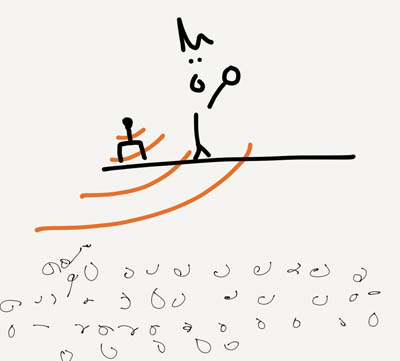
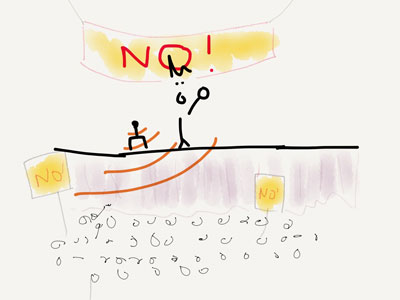
a father's mild approval is won

diff --git a/docs/background.md b/docs/background.md
@@ -1,7 +1,9 @@
 # Thoughts on The People's Library
 
 The People's Library is a decentralized, sharable, syncable media library and web app. 
-It's a web app inside a media library and a media library inside a web app (i.e. it's a [CouchDB](http://couchdb.apache.org/) [CouchApp](http://couchdb.readthedocs.org/en/latest/couchapp/) containing [pouchdb](http://pouchdb.com/)).
+It's a web app inside a media library and a media library inside a web app (i.e. it's a [CouchDB](http://couchdb.apache.org/) [CouchApp](http://couchdb.readthedocs.org/en/latest/couchapp/) containing [pouchdb](http://pouchdb.com/)).  
+
+Any device with a web browser becomes a library that allows its owner to collect, consume and share all it contains.
 
 ![mid-century](/docs/assets/mid-century.jpg "Arts & Architecture")
 
@@ -10,19 +12,11 @@ It's a web app inside a media library and a media library inside a web app (i.e.
 You could totally use other programs to package up the Tumblr and then share it via bit torrent.  That would work too.  However, you wouldn't be able to enjoy the images in the meantime.  It wouldn't be _useful_ in the interim.  So it'd be less likely to last.
 
 
-## Benefits:
-
-* HTML5 & javascript are open, widely suported and widely accessible
-* Decentralized - media files (as well as the app itself) are stored locally and can sync peer-to-peer or via internet
-* 100% free & open
-* Less Complex - built only on [CouchDB](http://couchdb.apache.org/) allows it to be run on low level devices
-* Compiling all of the world's content in a giant decentralized database
-
 ## Use Cases
 
 ![cloud-sync](/docs/assets/cloud-sync.jpg "Cloud Sync")
 
-* A user on a desktop PC navigates to a remote peoples-lib via URL.  The user is able to view, search, consume and sync any files in the remote library.  Synced files are stored in the browser for offline use. They can also be downloaded to the PC file system.  The user is also able to see others users who are currently in the library and sync with them peer-to-peer using webRTC
+* A user on a desktop PC navigates to a remote peoples-lib via URL.  The user is able to view, search, consume and sync any files in the remote library.  Synced files are stored in the browser for offline use. They can also be downloaded to the PC file system.  The user is able to see others users who are currently in the library and sync with them peer-to-peer using webRTC
 
 ![public-library](/docs/assets/public-library.jpg "Guerilla Public Library")
 
@@ -32,12 +26,23 @@ You could totally use other programs to package up the Tumblr and then share it 
 
 * Seamless Sharing - Two devices containing The People's Library could locate each other and sync automatically.  A Protest organizer might create a library with relevant literature & propaganda allowing protestors to set their libraries to openly sync.
 
+* Private Collections - While waiting for his date to come downstairs from preparing for the evening's events, a young suitor uses his smart phone to peruse his date's father's audio collection.  Discovering one of his favorite [obscure bands](http://open.spotify.com/artist/5awyxT5dfxGoIIG6zuvxLv) in the father's collection emboldens him to strike up a conversation.  Improbably, the band is also one of the father's all-time favorites too!  Hearts are warmed and a father's mild approval is won.
 
 #### Fun Thoughts
 
 * Closed devices such as Kindles can access People's Libraries via an e-book with a link in it. The built-in browser would load the People's Library e-reader
 * Appliances that serve their own manuals & tutorial videos
+* Browser-based artworks can be archived, collected and shared as easily as more traditional media types (epubs, mp3s, mp4...)
+* Offering the library owner a choice to offer their files for download via copying or _moving_ (i.e. someone else downloading it removes it from the original 
+owner's collection)
 
+## Benefits:
+
+* HTML5 & javascript are open, widely suported and widely accessible
+* Decentralized - media files (as well as the app itself) are stored locally and can sync peer-to-peer or via internet
+* 100% free & open
+* Less Complex - built only on [CouchDB](http://couchdb.apache.org/) allows it to be run on low level devices
+* Compiling all of the world's content in a giant decentralized database
 
 # Inspiration
 
